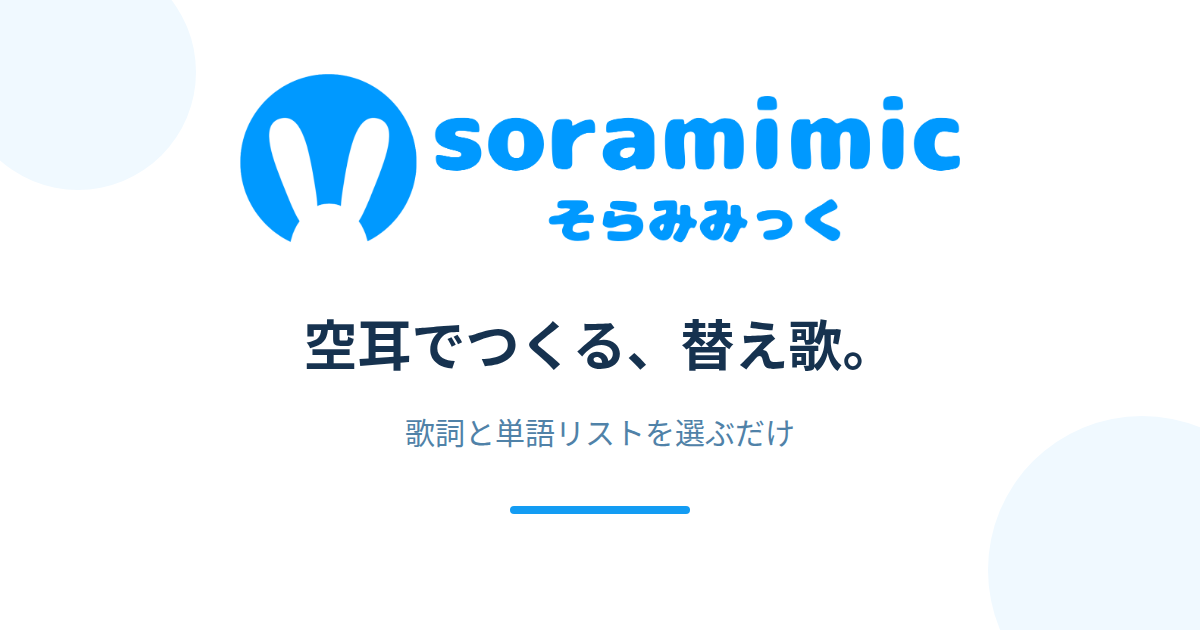
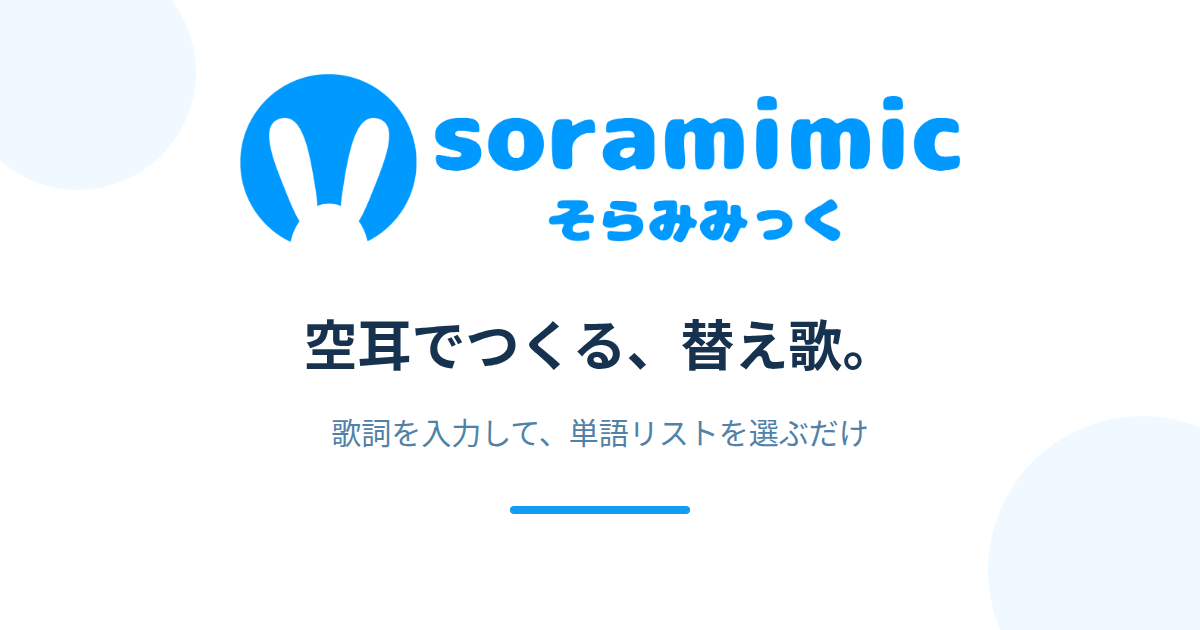
リンクカードの操作説明を正す

Changed region(s): [[0.2775, 0.6635, 0.74, 0.7238]]

diff --git a/frontend/index.html b/frontend/index.html
@@ -4,7 +4,7 @@
     <meta charset="UTF-8" />
     <meta name="viewport" content="width=device-width, initial-scale=1" />
     <title>Soramimic | 空耳歌詞メーカー</title>
-    <meta name="description" content="歌詞と単語リストを選ぶだけ。空耳で置き換えた「○○で歌ってみた」風の替え歌を作れます。" />
+    <meta name="description" content="歌詞を入力して、単語リストを選ぶだけ。空耳で置き換えた「○○で歌ってみた」風の替え歌を作れます。" />
     <link rel="canonical" href="https://soramimic.com/" />
     <link rel="icon" type="image/png" href="/logo-soramimic-symbol-v4.png" />
     <link rel="apple-touch-icon" href="/logo-soramimic-symbol-v4.png" />
@@ -13,7 +13,7 @@
     <meta property="og:locale" content="ja_JP" />
     <meta property="og:site_name" content="Soramimic" />
     <meta property="og:title" content="Soramimic | 空耳歌詞メーカー" />
-    <meta property="og:description" content="歌詞と単語リストを選ぶだけ。空耳で置き換えた「○○で歌ってみた」風の替え歌を作れます。" />
+    <meta property="og:description" content="歌詞を入力して、単語リストを選ぶだけ。空耳で置き換えた「○○で歌ってみた」風の替え歌を作れます。" />
     <meta property="og:url" content="https://soramimic.com/" />
     <meta property="og:image" content="https://soramimic.com/og-image-v2.png" />
     <meta property="og:image:type" content="image/png" />
@@ -23,7 +23,7 @@
 
     <meta name="twitter:card" content="summary_large_image" />
     <meta name="twitter:title" content="Soramimic | 空耳歌詞メーカー" />
-    <meta name="twitter:description" content="歌詞と単語リストを選ぶだけ。空耳で置き換えた「○○で歌ってみた」風の替え歌を作れます。" />
+    <meta name="twitter:description" content="歌詞を入力して、単語リストを選ぶだけ。空耳で置き換えた「○○で歌ってみた」風の替え歌を作れます。" />
     <meta name="twitter:image" content="https://soramimic.com/og-image-v2.png" />
     <meta name="twitter:image:alt" content="Soramimic 空耳歌詞メーカー。空耳でつくる、替え歌。" />
     <script>
